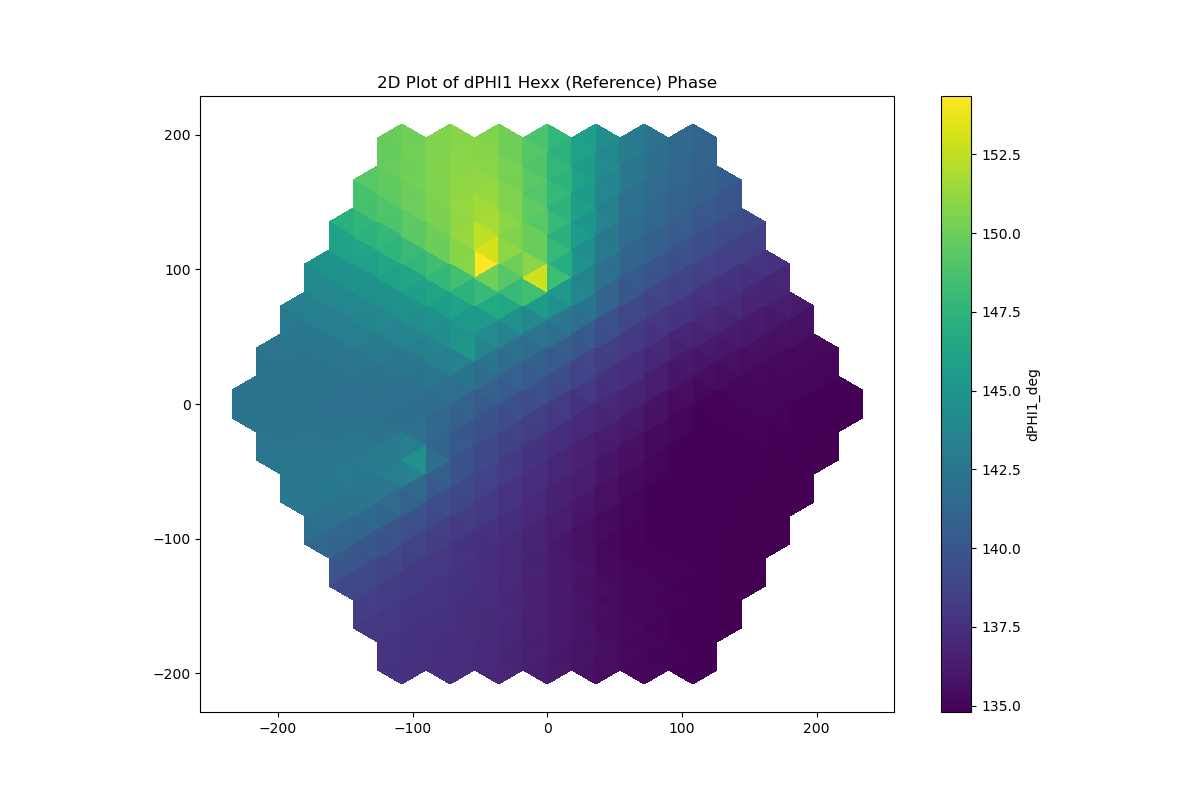
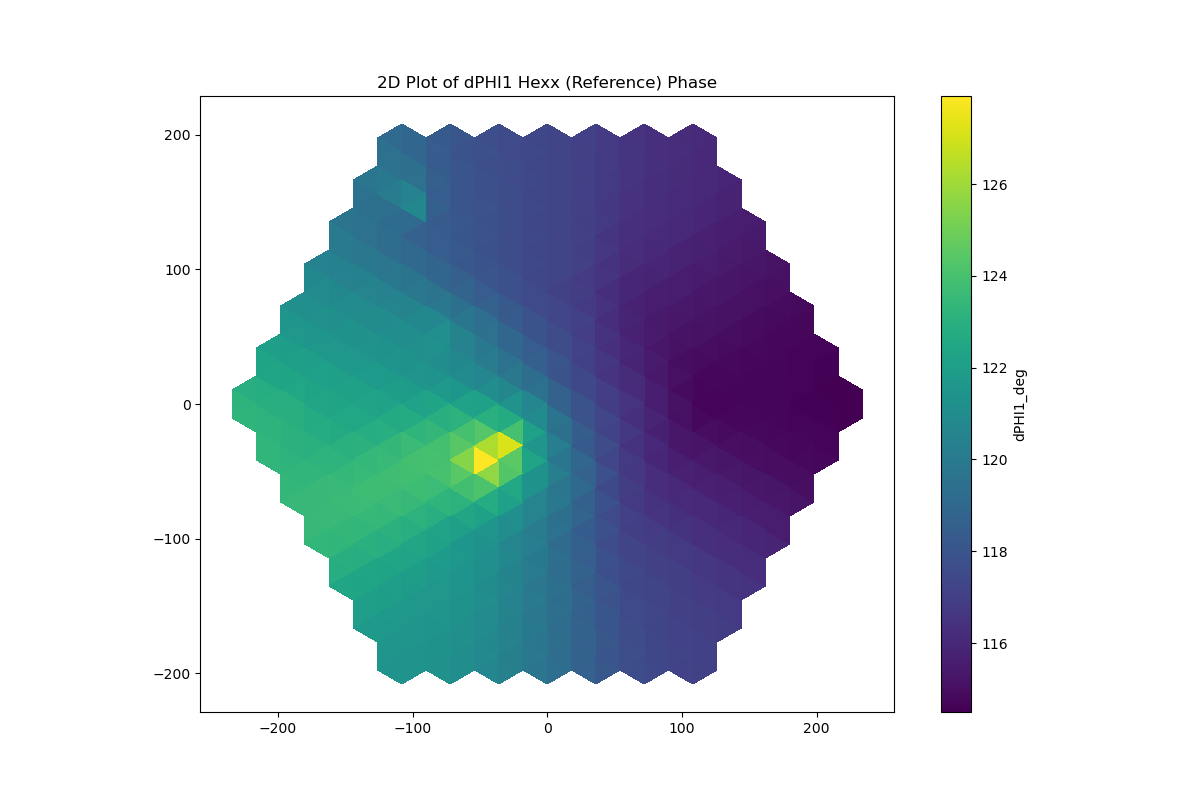
edit new

diff --git a/SRC/UNFOLDING_085_SOURCE_TEST_SUITE_2D_HEXX.py b/SRC/UNFOLDING_085_SOURCE_TEST_SUITE_2D_HEXX.py
@@ -194,9 +194,10 @@ for g in range(group):
             conv_new[m] = g * max(conv_tri) + conv_tri[n]
 
 max_num_source = 8
-freq = np.logspace(-2, 1, 20)
+freq = np.logspace(-2, 1, 10)
 add_iter = 0
 iter = 0
+additional_iter = 2
 validity_INVERT = []
 validity_ZONE = []
 validity_SCAN = []
@@ -212,59 +213,60 @@ if os.path.exists(iter_file):
     os.remove(iter_file)
     print(f"Existing file '{iter_file}' deleted.")
 
-for num_source in range(7, max_num_source):
-    for fo in range(len(freq)):
-        dTOT_hexx = [row[:] for row in dTOT_hexx_OLD]
-        source = num_source + 1
-        f = freq[fo]
-        loc_conv = []
-        loc = []
+while add_iter < additional_iter:
+    for num_source in range(5, max_num_source):
+        for fo in range(len(freq)):
+            dTOT_hexx = [row[:] for row in dTOT_hexx_OLD]
+            source = num_source + 1
+            f = freq[fo]
+            loc_conv = []
+            loc = []
 
-        for s in range(source):
-            loc_conv.append(random.randint(1, group * max(conv_tri)))
-        for l, lo in enumerate(loc_conv):
+            for s in range(source):
+                loc_conv.append(random.randint(1, group * max(conv_tri)))
+            for l, lo in enumerate(loc_conv):
+                for g in range(group):
+                    for n in range(N_hexx):
+                        m = g * N_hexx + n
+                        if lo == conv_new[m]:
+                            loc.append(m)
+
+            mag_real_loc = []
+            mag_imag_loc = []
             for g in range(group):
                 for n in range(N_hexx):
-                    m = g * N_hexx + n
-                    if lo == conv_new[m]:
-                        loc.append(m)
+                    for l in range(len(loc)):
+                        if g * N_hexx + n == loc[l]:
+                            mag_real = random.randint(1, 10)/100
+                            imag_random = random.randint(0,1)
+                            if imag_random == 0:
+                                dTOT_hexx[g][n] = mag_real * TOT_hexx2[g][n]
+                                mag_real_loc.append(mag_real)
+                                mag_imag_loc.append(0.0)
+                            elif imag_random == 1:
+                                mag_imag = random.randint(1, 10)/100
+                                dTOT_hexx[g][n] = mag_real * TOT_hexx2[g][n] + (1j * mag_imag * TOT_hexx2[g][n])
+                                mag_real_loc.append(mag_real)
+                                mag_imag_loc.append(mag_imag)
 
-        mag_real_loc = []
-        mag_imag_loc = []
-        for g in range(group):
-            for n in range(N_hexx):
-                for l in range(len(loc)):
-                    if g * N_hexx + n == loc[l]:
-                        mag_real = random.randint(1, 10)/100
-                        imag_random = random.randint(0,1)
-                        if imag_random == 0:
-                            dTOT_hexx[g][n] = mag_real * TOT_hexx2[g][n]
-                            mag_real_loc.append(mag_real)
-                            mag_imag_loc.append(0.0)
-                        elif imag_random == 1:
-                            mag_imag = random.randint(1, 10)/100
-                            dTOT_hexx[g][n] = mag_real * TOT_hexx2[g][n] + (1j * mag_imag * TOT_hexx2[g][n])
-                            mag_real_loc.append(mag_real)
-                            mag_imag_loc.append(mag_imag)
+            case_name = f'{case_name2}_iter{iter}_source{source}'
+            # Append to file without changing loop structure
+            with open(iter_file, "a") as file:
+                file.write(f"Iteration: {iter+1}, num_source: {len(loc)}, loc_conv = {loc_conv}, loc = {loc}, frequency: {f}, Real magnitude = {mag_real_loc}, Imaginary magnitude = {mag_imag_loc}\n")
 
-        case_name = f'{case_name2}_iter{iter}_source{source}'
-        # Append to file without changing loop structure
-        with open(iter_file, "a") as file:
-            file.write(f"Iteration: {iter+1}, num_source: {len(loc)}, loc_conv = {loc_conv}, loc = {loc}, frequency: {f}, Real magnitude = {mag_real_loc}, Imaginary magnitude = {mag_imag_loc}\n")
-        
-        dPHI_temp = main_unfold_2D_hexx_noise(PHI_temp, keff, group, I_max, J_max, N_hexx, conv_tri, conv_neighbor, TOT, SIGS_reshaped, BC, h, level, D, chi, NUFIS, v, Beff, omega, l, dTOT_hexx, dSIGS_hexx, dNUFIS_hexx, chi_hexx, noise_section, type_noise, map_detector_hexx, output_dir, case_name, precond, tri_indices, x, y)
-        G_matrix = main_unfold_2D_hexx_green(keff, group, I_max, J_max, N_hexx, conv_tri, conv_neighbor, TOT, SIGS_reshaped, BC, h, level, D, chi, NUFIS, v, Beff, omega, l, dTOT_hexx, dSIGS_hexx, dNUFIS_hexx, chi_hexx, noise_section, type_noise, output_dir, case_name, precond)
-        S, dPHI_temp_meas = main_unfold_2D_hexx_solve(PHI_temp, G_matrix, dPHI_temp, keff, group, I_max, J_max, N_hexx, conv_tri, conv_neighbor, TOT, SIGS_reshaped, BC, h, level, D, chi, NUFIS, v, Beff, omega, l, dTOT_hexx, dSIGS_hexx, dNUFIS_hexx, chi_hexx, noise_section, type_noise, map_detector_hexx, output_dir, case_name, precond, tri_indices, x, y)
-        
-        dPHI_temp_GREEDY, dS_unfold_GREEDY_temp = main_unfold_2D_hexx_greedy_new(dPHI_temp_meas, dPHI_temp, S, G_matrix, group, N_hexx, conv_tri, output_dir, case_name, tri_indices, x, y)
-        if np.allclose(S, dS_unfold_GREEDY_temp, atol=1E-06):
-            validity_GREEDY.append('yes')
-        else:
-            validity_GREEDY.append('no')
-        
-        validity = [validity_INVERT, validity_ZONE, validity_SCAN, validity_BRUTE, validity_BACK, validity_GREEDY]
-        with open(f"../OUTPUTS/{case_name_base}/output_validity.txt", "w") as f:
-            for category, lst in zip(methods, validity):
-                f.write(f"{category} " + ", ".join(lst) + "\n")
-        
-        iter += 1
+            dPHI_temp = main_unfold_2D_hexx_noise(PHI_temp, keff, group, I_max, J_max, N_hexx, conv_tri, conv_neighbor, TOT, SIGS_reshaped, BC, h, level, D, chi, NUFIS, v, Beff, omega, l, dTOT_hexx, dSIGS_hexx, dNUFIS_hexx, chi_hexx, noise_section, type_noise, map_detector_hexx, output_dir, case_name, precond, tri_indices, x, y)
+            G_matrix = main_unfold_2D_hexx_green(keff, group, I_max, J_max, N_hexx, conv_tri, conv_neighbor, TOT, SIGS_reshaped, BC, h, level, D, chi, NUFIS, v, Beff, omega, l, dTOT_hexx, dSIGS_hexx, dNUFIS_hexx, chi_hexx, noise_section, type_noise, output_dir, case_name, precond)
+            S, dPHI_temp_meas = main_unfold_2D_hexx_solve(PHI_temp, G_matrix, dPHI_temp, keff, group, I_max, J_max, N_hexx, conv_tri, conv_neighbor, TOT, SIGS_reshaped, BC, h, level, D, chi, NUFIS, v, Beff, omega, l, dTOT_hexx, dSIGS_hexx, dNUFIS_hexx, chi_hexx, noise_section, type_noise, map_detector_hexx, output_dir, case_name, precond, tri_indices, x, y)
+
+            dPHI_temp_GREEDY, dS_unfold_GREEDY_temp = main_unfold_2D_hexx_greedy_new(dPHI_temp_meas, dPHI_temp, S, G_matrix, group, N_hexx, conv_tri, output_dir, case_name, tri_indices, x, y)
+            if np.allclose(S, dS_unfold_GREEDY_temp, atol=1E-06):
+                validity_GREEDY.append('yes')
+            else:
+                validity_GREEDY.append('no')
+
+            validity = [validity_INVERT, validity_ZONE, validity_SCAN, validity_BRUTE, validity_BACK, validity_GREEDY]
+            with open(f"../OUTPUTS/{case_name_base}/output_validity.txt", "w") as f:
+                for category, lst in zip(methods, validity):
+                    f.write(f"{category} " + ", ".join(lst) + "\n")
+
+            iter += 1
